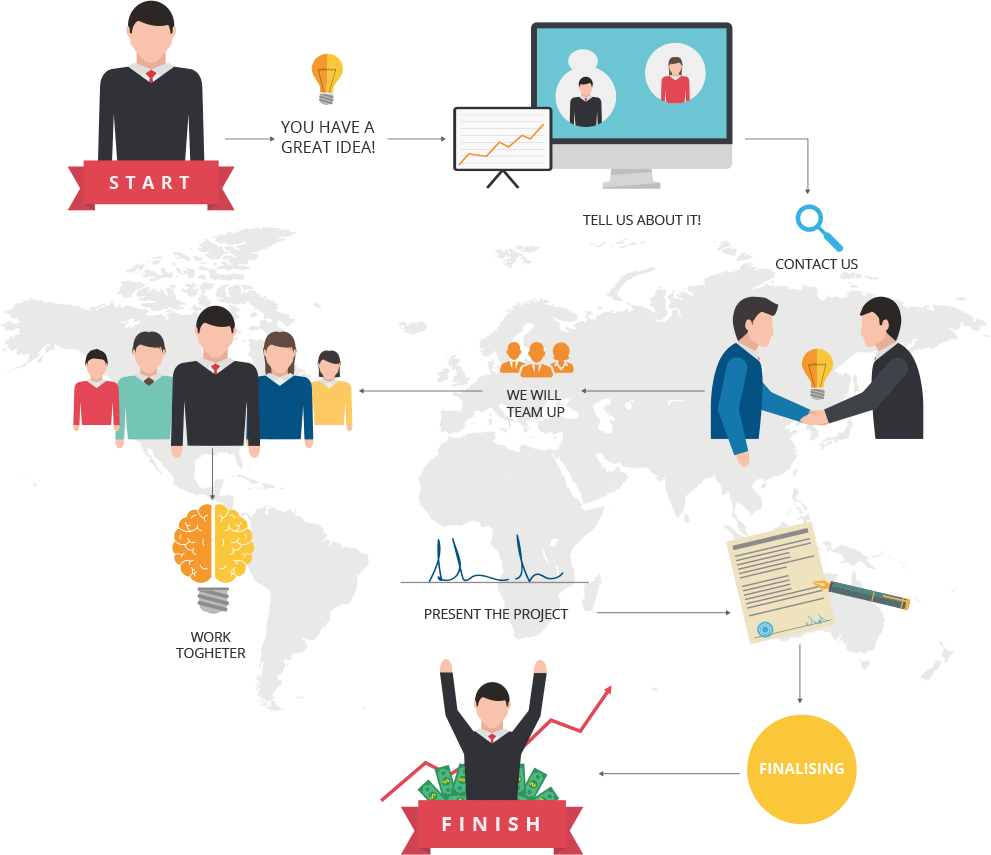
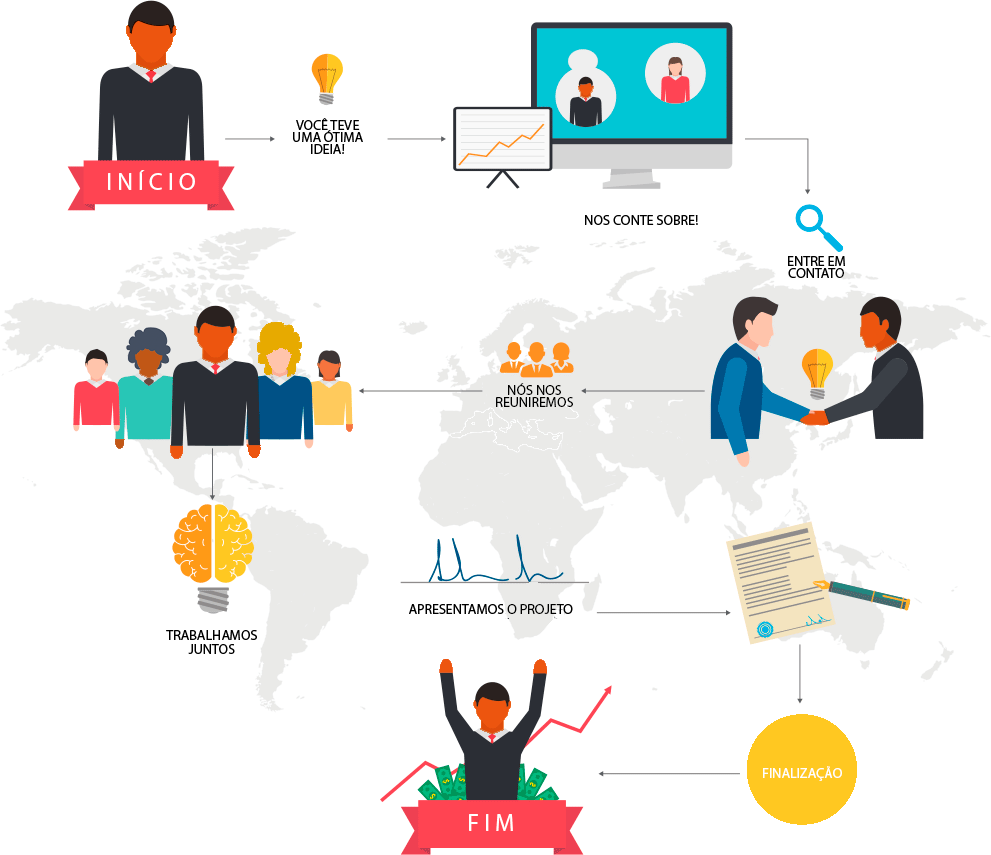
map

diff --git a/index.html b/index.html
@@ -150,7 +150,7 @@
 
                 <div class="col-3">
                     <div class="section-heading">
-                        <h3>SUCCESS</h3>
+                        <h3>SUCESSO</h3>
                         <h2 class="section-title">How We Help You To Sell Your Product</h2>
                         <p class="section-subtitle">Lorem ipsum dolor sit amet, consectetur adipiscing elit, sed do
                             eiusmod tempor incididunt ut labore et dolore magna aliqua. Ut enim ad minim veniam!</p>
@@ -231,7 +231,7 @@
 
 
         <!--Content Section-->
-        <div id="about" class="scrollto clearfix">
+        <section id="about" class="scrollto clearfix">
 
             <div class="row no-padding-bottom clearfix">
 
@@ -243,17 +243,18 @@
                     <div class="section-heading">
                         <h3>METODOLOGIA</h3>
                         <h2 class="section-title">Como trabalhamos?</h2>
-                        
+                        <p class="section-subtitle">nós, da Tijolo, queremos que você se sinta parte de todo o processo de
+                        contrução e que moldemos, <b>juntos</b>, o novo futuro da sua marca</p>
+                    </div>    
                 <!--End Content Right Side-->
 
             </div>
-            <div class="col-3">
-                    <img src="images/map.png" alt="Dancer"/>
-                </div>
+            <div class="col-2">
+                    <img src="images/map.png" alt="Dancer" height="600"/>
             </div>
         </div>
 
-        </div>
+    </section>
         <!--End of Content Section-->
 
         <!--Pricing Tables-->
